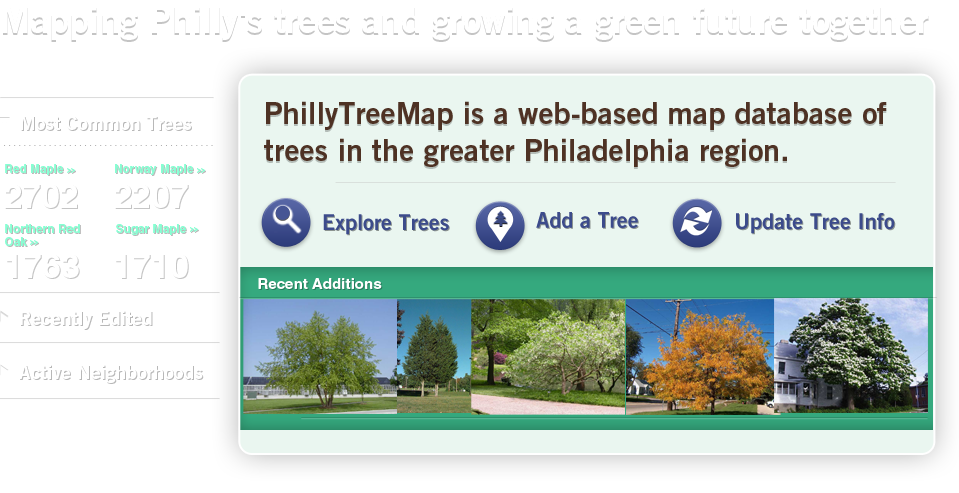
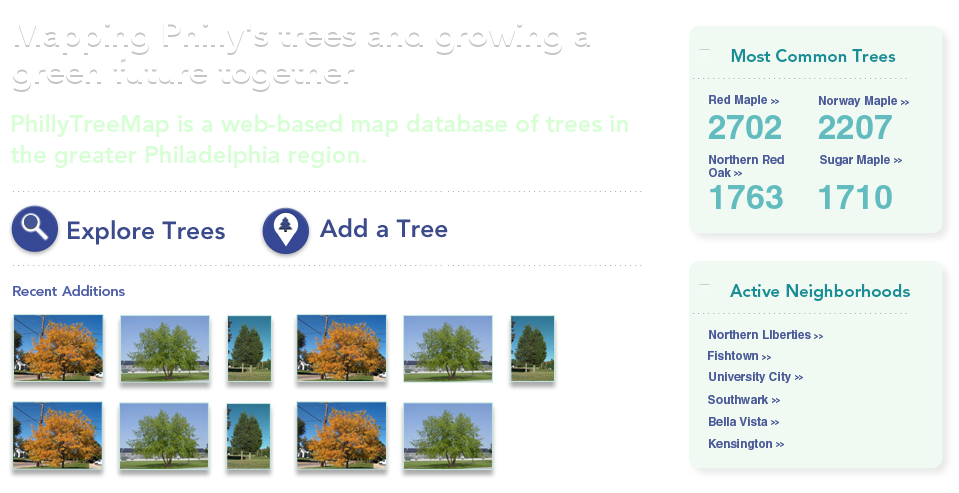
homepage update

diff --git a/static/css/ptm.css b/static/css/ptm.css
@@ -136,7 +136,7 @@ button::-moz-focus-inner, input::-moz-focus-inner {
 	margin: 0 auto;
 	width: 940px;
 }
-
+#index #headerNavLinks {display:none}
 #headerNavLinks {
 	float: left;
 	padding:0;
@@ -865,7 +865,10 @@ ul#promoMap li#promoMapEmbed {
 
 .home {
 
-margin: 40px 0 -25px 28px;
+margin: 44px 0 -60px 0;
+background: url(/static/images/ptm/home-bg.png) center bottom no-repeat;
+padding-bottom: 90px;
+padding-left: 10px;
 }
 #t4_top_content {
 
